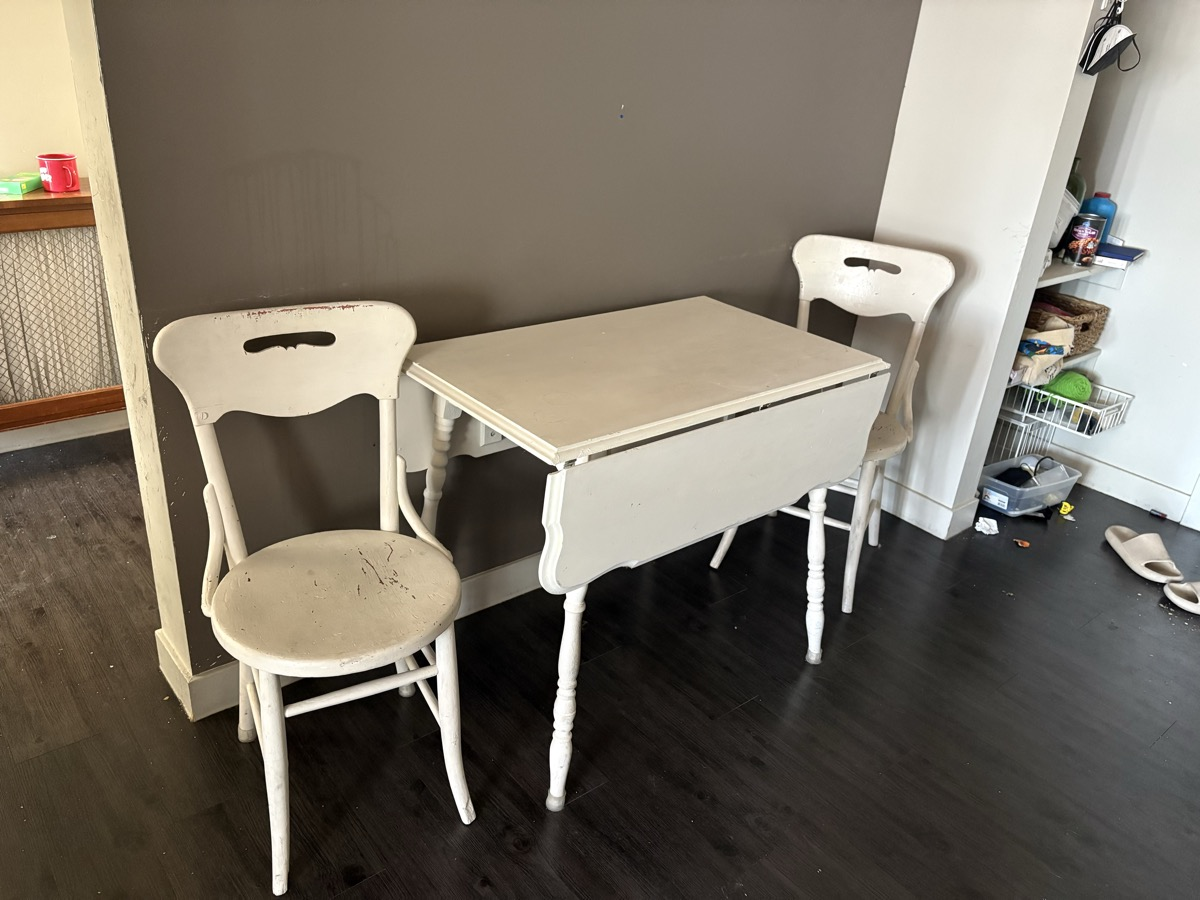
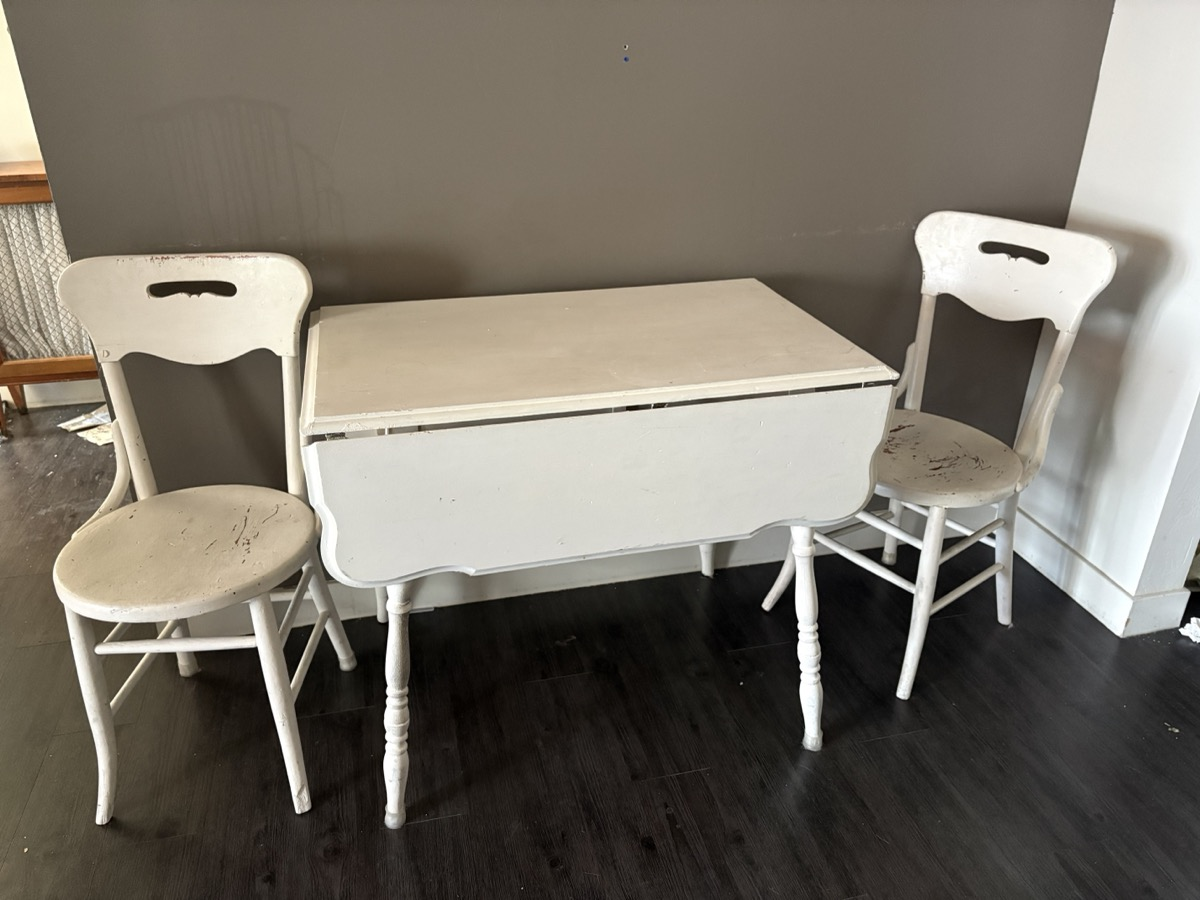
Batch 2: regency console, FoodSaver bundle, skateboard, canisters, planter + retake heroes

diff --git a/index.html b/index.html
@@ -87,7 +87,8 @@
 const ITEMS = [
  // Furniture & big stuff
  {s:"Furniture & big stuff", n:"Queen metal bed frame + box spring, white farmhouse style", p:"$110", note:"Solid, no rust.", d:"White powder-coated metal queen frame — spindle farmhouse style with ball finials. Headboard, footboard, and rails, plus the box spring. No rust, no squeaks. You disassemble and haul.", ph:["a4","a4-2","a4-3"]},
- {s:"Furniture & big stuff", n:"Vintage drop-leaf dinette table + 2 bentwood chairs", p:"$75", note:"Both leaves fold.", d:"Shabby-chic white drop-leaf table — both leaves fold down so it fits a studio corner or opens up for four. Comes with 2 bentwood-style chairs. Honest wear in the paint; solid and sturdy.", ph:["a17"]},
+ {s:"Furniture & big stuff", n:"Vintage drop-leaf dinette table + 2 bentwood chairs", p:"$75", note:"Both leaves fold.", d:"Shabby-chic white drop-leaf table — both leaves fold down so it fits a studio corner or opens up for four. Comes with 2 bentwood-style chairs. Honest wear in the paint; solid and sturdy.", ph:["a17","a17-2"]},
+ {s:"Furniture & big stuff", n:"Vintage regency console cabinet, wire-mesh doors", p:"$95", note:"Parquet top, brass pulls.", d:"Vintage French-regency style console/media cabinet: parquet-inlay top, fluted columns, double doors with diamond wire mesh and gathered fabric panels, brass ring pulls, tapered legs with brass caps. ~48\"W. Interior shelf. A genuinely handsome piece.", ph:["d17","d17-2","d17-3"]},
  {s:"Furniture & big stuff", n:"L-shaped corner desk, white top / gold frame", p:"$70", note:"~59\"×59\", keyboard tray.", d:"White and gold L-shaped corner desk, about 59\"×59\" with a slide-out keyboard tray. Modern, clean, sturdy — a full WFH setup in one piece.", ph:["a5","a5-2"]},
  {s:"Furniture & big stuff", n:"Antique black set: 4-drawer dresser + 2-door cabinet", p:"$225", note:"Or dresser $150 / cabinet $125.", d:"Antique black set, sold together for $225 or separately: 4-drawer dresser with glass knobs and casters ($150) and 2-door cabinet with iron swing latch, ~36×36×14 ($125). Solid wood, chippy antique finish. Heavy — bring two people.", ph:["a6"]},
  {s:"Furniture & big stuff", n:"Shark Rotator Professional Lift-Away vacuum (NV501)", p:"$125", note:"Bought new in June — $260 new.", d:"Bought new in June — sells for $260 new. Barely used, runs perfectly. HEPA filter, lift-away pod for stairs and upholstery, swivel steering, LED headlights. The best vacuum I've ever owned.", ph:["a14"], fit:"contain"},
@@ -129,7 +130,11 @@ const ITEMS = [
  {s:"Kitchen, decor & more", n:"Fall pumpkin accent rug", p:"$8", note:"~2×4.", d:"Woven accent rug with a big pumpkin and stripes, roughly 2×4 ft. Autumn at your doorstep.", ph:["d10"]},
  {s:"Kitchen, decor & more", n:"Le Creuset French press + 3 mugs (cream)", p:"$70", note:"Like new.", d:"Le Creuset stoneware French press (cafetière) + 3 matching mugs in cream Meringue. Like new, no chips or cracks. Over $140 retail.", ph:["a8","a8-2","a8-3"]},
  {s:"Kitchen, decor & more", n:"Instant Pot Duo Gourmet 9-in-1, 6 qt", p:"$45", note:"$80 new.", d:"Instant Pot Duo Gourmet 6-quart, 9-in-1: pressure cook, slow cook, sous vide, sauté, rice, yogurt, sterilize and more. Works perfectly. $80 new.", ph:["a16"]},
- {s:"Kitchen, decor & more", n:"Vintage tumbler collection (~13 glasses)", p:"$45", note:"Ask about sets.", d:"Mid-century vintage glass collection, about 13 pieces: pastel-ring striped tumblers, yellow-and-white stripes, turquoise diamond-pattern highballs, and fruit-print juice glasses. These go for $8–15 per glass on Etsy — take the lot for $45, or ask about sets.", ph:["c6","c6-2","c6-3","c6-4"], fit:"contain"},
+ {s:"Kitchen, decor & more", n:"Vintage tumbler collection (~13 glasses)", p:"$45", note:"Ask about sets.", d:"Mid-century vintage glass collection, about 13 pieces: pastel-ring striped tumblers, yellow-and-white stripes, turquoise diamond-pattern highballs, and fruit-print juice glasses. These go for $8–15 per glass on Etsy — take the lot for $45, or ask about sets.", ph:["c6","c6-5","c6-6","c6-2","c6-3","c6-4"], fit:"contain"},
+ {s:"Kitchen, decor & more", n:"FoodSaver vacuum sealer + 6 Kirkland bag rolls", p:"$50", note:"$150+ value.", d:"FoodSaver FM2000-series vacuum sealer (works great) plus SIX sealed Kirkland vacuum-bag rolls — that's $90+ in bags alone. Meal-preppers, this is your day.", ph:["d13","d13-2"]},
+ {s:"Kitchen, decor & more", n:"Complete skateboard — shark deck", p:"$45", note:"Ready to ride.", d:"Complete skateboard: Jackson Pilz shark-graphic deck, metal trucks, checkered wheels. Normal wear, ready to ride.", ph:["d14","d14-2"]},
+ {s:"Kitchen, decor & more", n:"Stackable glass canister set (5)", p:"$15", note:"Square, with lids.", d:"Five square stackable glass canisters with gasket lids (Anchor Hocking style). Pantry goals.", ph:["d15","d15-2"]},
+ {s:"Kitchen, decor & more", n:"Large turquoise ceramic planter", p:"$20", note:"~12\".", d:"Big turquoise glazed ceramic planter with textured pattern, ~12\". Gorgeous color. (Soil included free, lucky you.)", ph:["d16"]},
  {s:"Kitchen, decor & more", n:"Gold mesh pendant swag lamp (plug-in)", p:"$25", note:"No wiring needed.", d:"Gold wire-mesh oval pendant that hangs from a ceiling hook and plugs into a normal outlet — no wiring needed. Works; Edison spiral bulb included. Warm, glowy light.", ph:["a15","a15-2"]},
  {s:"Kitchen, decor & more", n:"Stick lamp, marble base with USB port", p:"$7", note:"Charges your phone.", d:"Black stick lamp with white marble base and a built-in USB-A charging port. Works great; pull-chain switch. ~19\" tall.", ph:["b4","b4-2","b4-3"]},
  {s:"Kitchen, decor & more", n:"Gold wire wall shelf, ~36\"", p:"$15", note:"Screws included.", d:"Gold metal wire grid wall shelf with upturned ends, roughly 36\" long × 8\" deep. Mounting screws included.", ph:["b7","b7-2"]},
@@ -137,8 +142,8 @@ const ITEMS = [
  {s:"Kitchen, decor & more", n:"Calvin Klein crossbody bag, black leather + gold chain", p:"$25", note:"$150 retail.", d:"Calvin Klein crossbody in black pebbled leather with gold chain-accent strap and gold logo hardware. Clean, good condition. Around $150 retail.", ph:["c11"]},
  {s:"Kitchen, decor & more", n:"ChefWave Milkmade — makes oat/almond/soy milk", p:"$30", note:"$240 new — priced to vanish.", d:"ChefWave Milkmade non-dairy milk maker — 6 programs (almond, oat, soy, cashew, macadamia, coconut), auto-clean, glass pitcher included. Works perfectly. $240 new, $30 because I want it gone today. Someone's oat-milk habit is about to get very cheap.", ph:["c12","c12-2"]},
  {s:"Kitchen, decor & more", n:"Electric coffee/spice grinder", p:"$8", note:"", d:"Electric blade grinder for coffee beans or spices. Works fine.", ph:["c13"]},
- {s:"Kitchen, decor & more", n:"Cream ceramic planter, ~8\"", p:"$15", note:"Mid-century style.", d:"Cream/ivory glazed ceramic planter with a footed base, about 8\" across. Clean mid-century lines.", ph:["c7"]},
- {s:"Kitchen, decor & more", n:"Cleaning bundle: 2 Lysol sprays + Scrubbing Bubbles x3", p:"$15", note:"$30+ retail.", d:"Move-out bonus bundle: 2 full 19-oz Lysol disinfectant sprays (crisp linen) + Scrubbing Bubbles Mega Shower Foamer + 2 multi-purpose disinfectant cans. All full or near-full. Over $30 retail.", ph:["c8","c8-2"]},
+ {s:"Kitchen, decor & more", n:"Cream ceramic planter, ~8\"", p:"$15", note:"Mid-century style.", d:"Cream/ivory glazed ceramic planter with a footed base, about 8\" across. Clean mid-century lines.", ph:["c7","c7-2"]},
+ {s:"Kitchen, decor & more", n:"Cleaning bundle: Lysol + Scrubbing Bubbles (7 pcs)", p:"$20", note:"$40+ retail.", d:"Move-out bonus bundle: 2 full 19-oz Lysol disinfectant sprays, Scrubbing Bubbles Mega Shower Foamer, 2 multi-purpose disinfectant cans, and 2 Lysol Advanced toilet bowl gels. Over $40 retail.", ph:["c8","c8-2","c8-3"]},
  {s:"Kitchen, decor & more", n:"Elite Gourmet mini slow cooker, 1.5 qt", p:"$10", note:"Perfect for one.", d:"Elite Gourmet 1.5-quart mini slow cooker, white — low/high/warm settings, glass lid, removable ceramic crock. Works great. About $17 new.", ph:["c9"]},
  {s:"Kitchen, decor & more", n:"Wicker basket collection (5)", p:"$25", note:"All shapes.", d:"Five woven/wicker baskets: tall round handled basket, rectangular 'Bakery' basket, round lidded hamper-style, and two square storage baskets. $25 takes all, or $6 each.", ph:["c10"]},
  {s:"Kitchen, decor & more", n:"Big white beaded serving platter ~18\"", p:"$10", note:"", d:"Large cream-white ceramic oval serving platter with a beaded rim, roughly 18×14. Light utensil marks, no cracks.", ph:["c2","c2-2"]},
